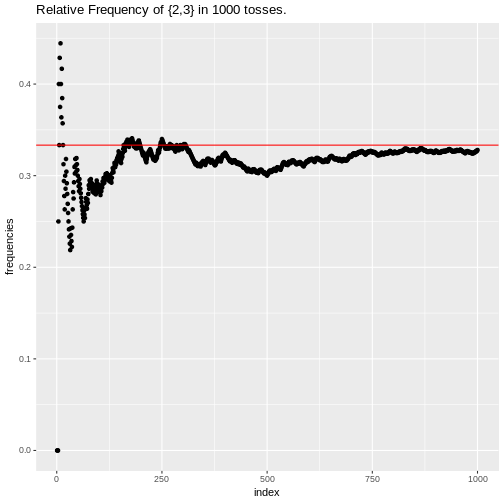
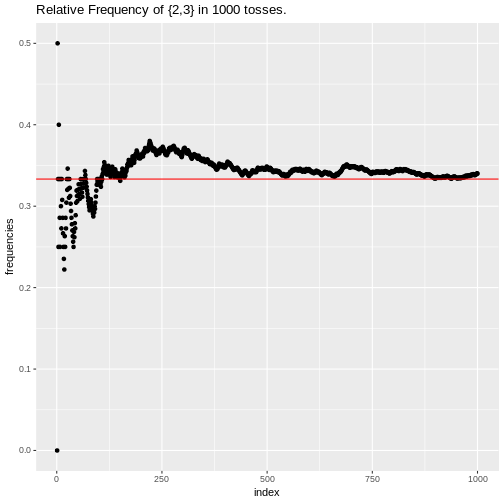
Updated week 2 slides

diff --git a/presentations/week2.html b/presentations/week2.html
@@ -122,7 +122,7 @@ sum(result1 %in% E) #This will give you the number of times E occurred
 ```
 
 ```
-## [1] 328
+## [1] 340
 ```
 
 ```r
@@ -132,7 +132,7 @@ table(result1)# see a table of the results. These shouldn't vary too much
 ```
 ## result1
 ##   1   2   3   4   5   6 
-## 178 171 157 155 170 169
+## 139 160 180 167 182 172
 ```
 ---
 ## Visual of the relative frequency approach
@@ -275,7 +275,7 @@ intersect(C2,D2) #this will return an empty value because it is an empty set
 
 - Associativity: `\(A\cup{(B\cup{C})} = (A\cup{B})\cup{C}\)`
 
-- Distributive Properties:$A\cap{(B\cup{C})} = (A\cap{B})\cup{(A\cap{C})}$ and `\(A\cup{(B\cap{C})} = (A\cup{B})\cap{(A\cup{C})}\)` 
+- Distributive Properties: `\(A\cap{(B\cup{C})} = (A\cap{B})\cup{(A\cap{C})}\)` and `\(A\cup{(B\cap{C})} = (A\cup{B})\cap{(A\cup{C})}\)` 
 ---
 ## Examples
 - Let's look at a coin example. If we are tossing a coin, with two simple events {H} and {T}, assignining P(H) = .3 and P(T) = .7 is legal. However, if we assign P(H) = .6 and P(T) = .3, this becomes illegal assignment. Why?
